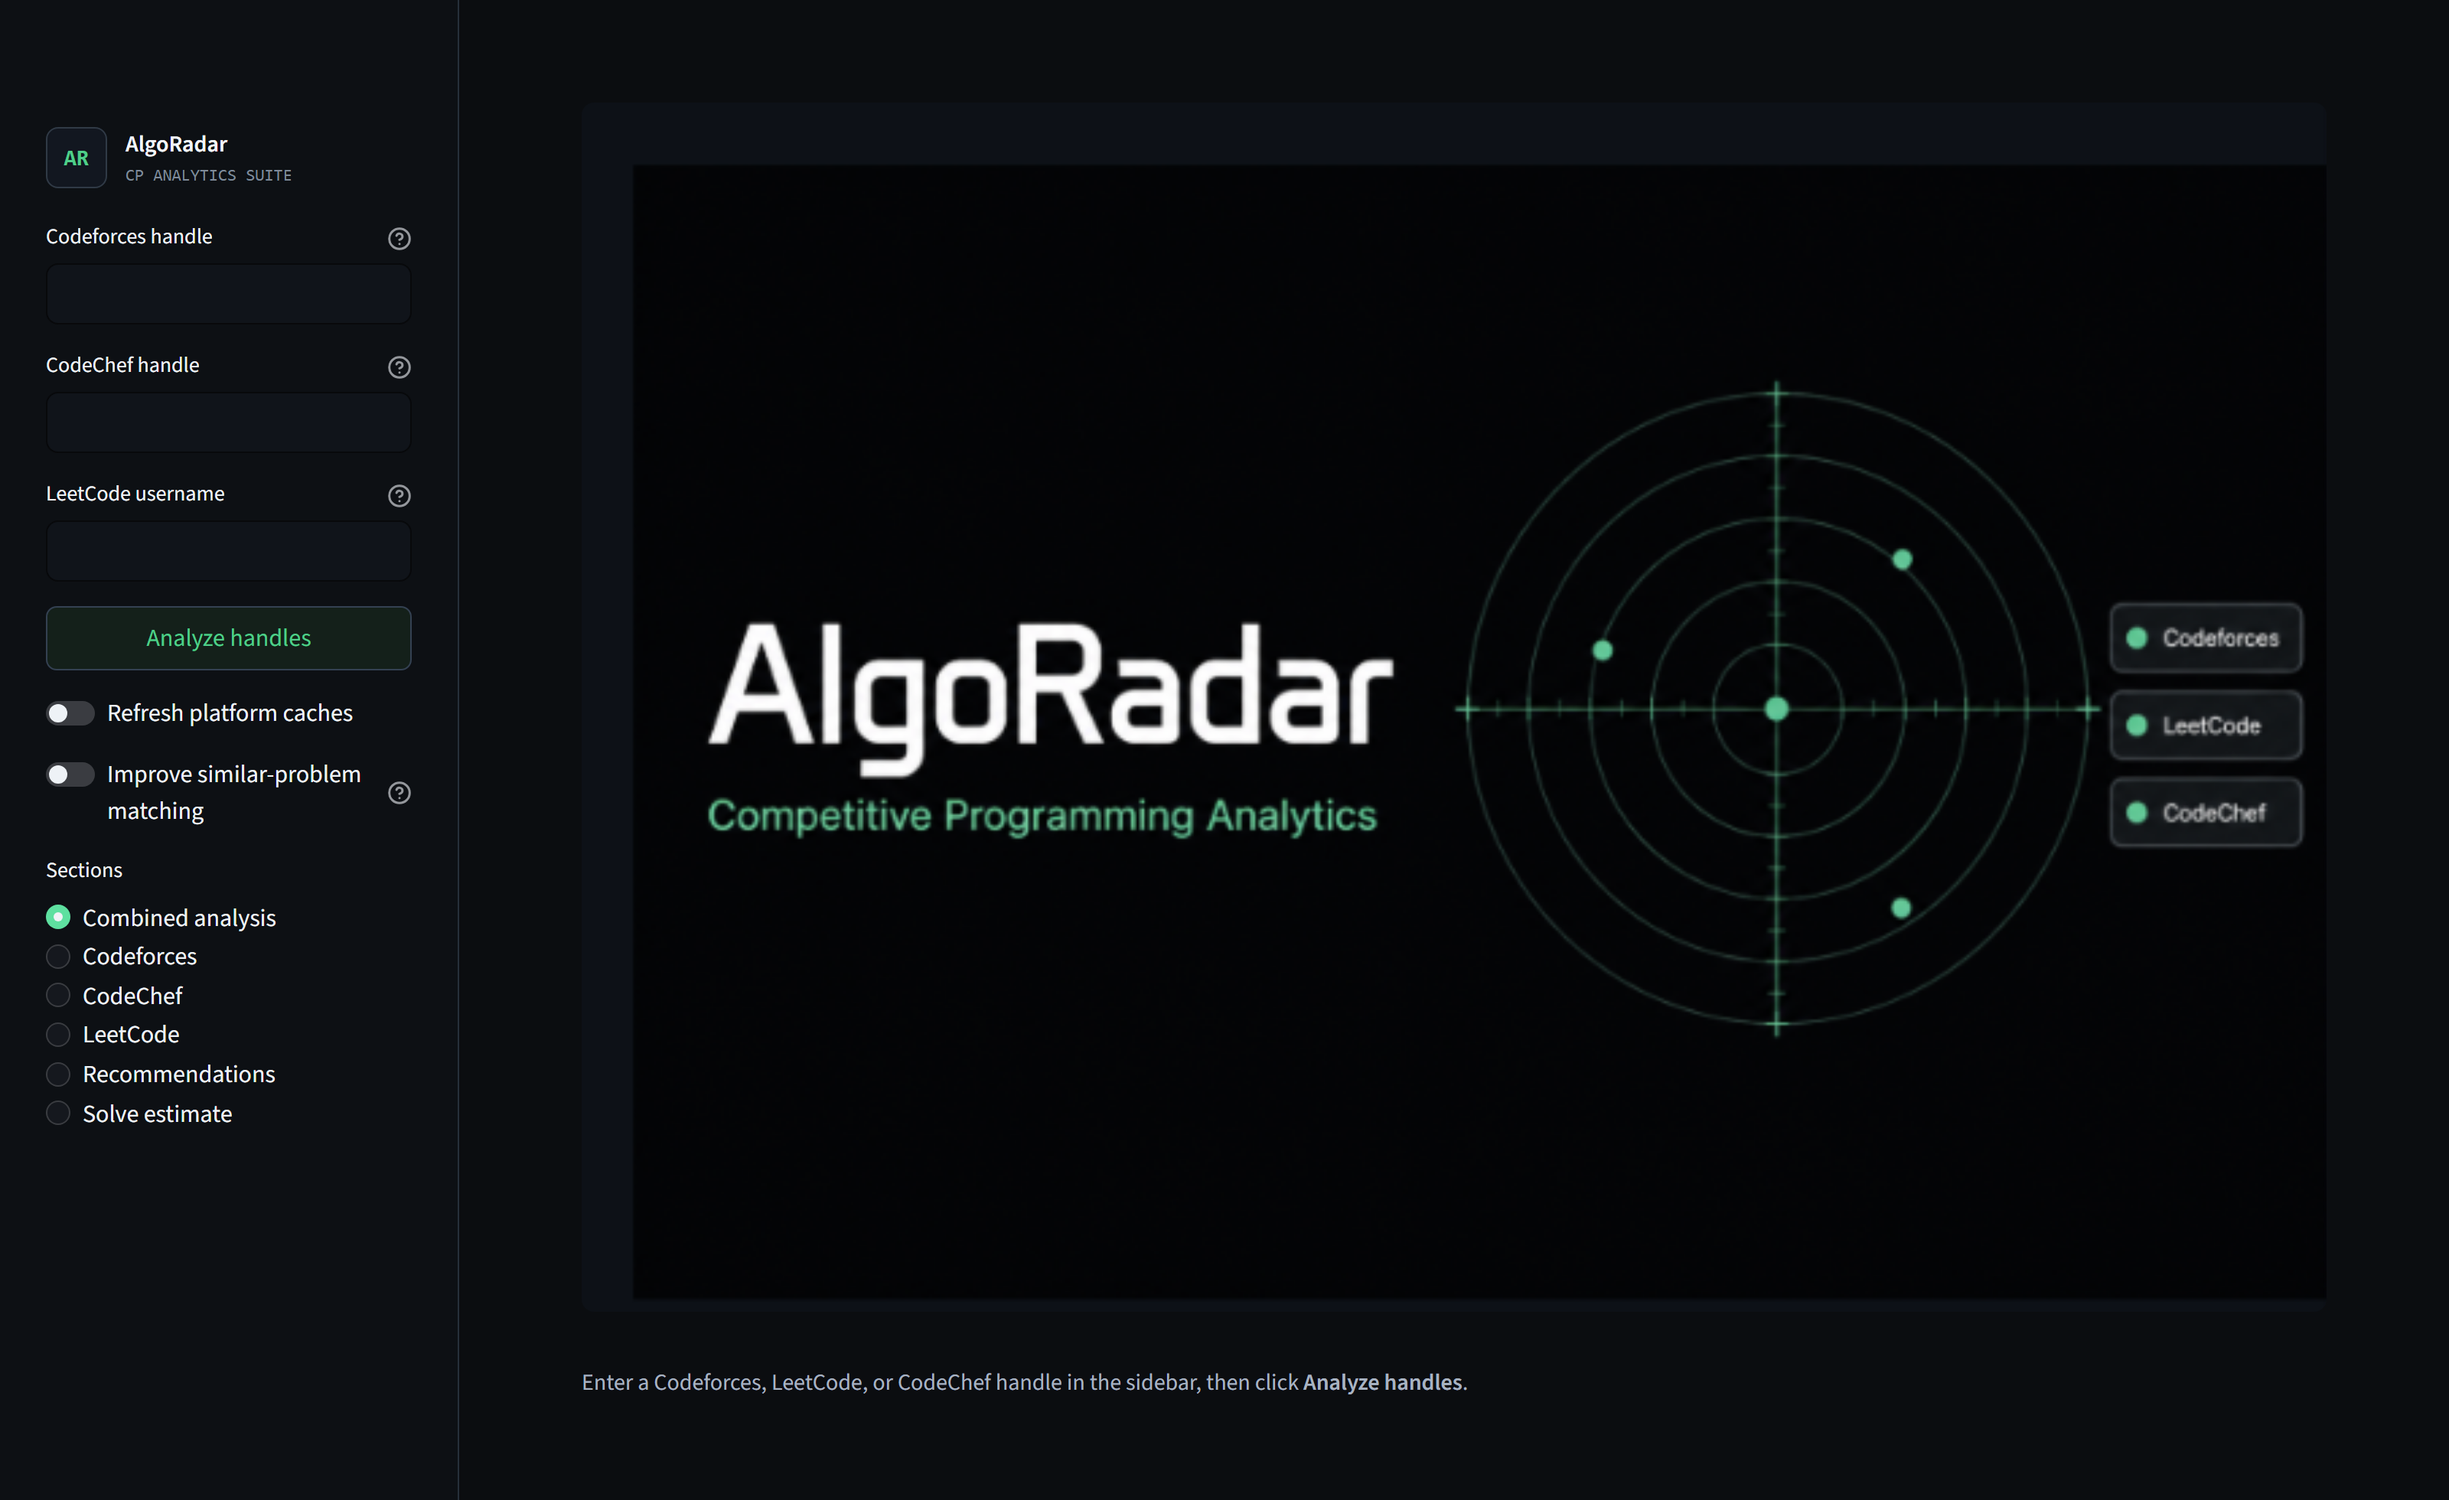
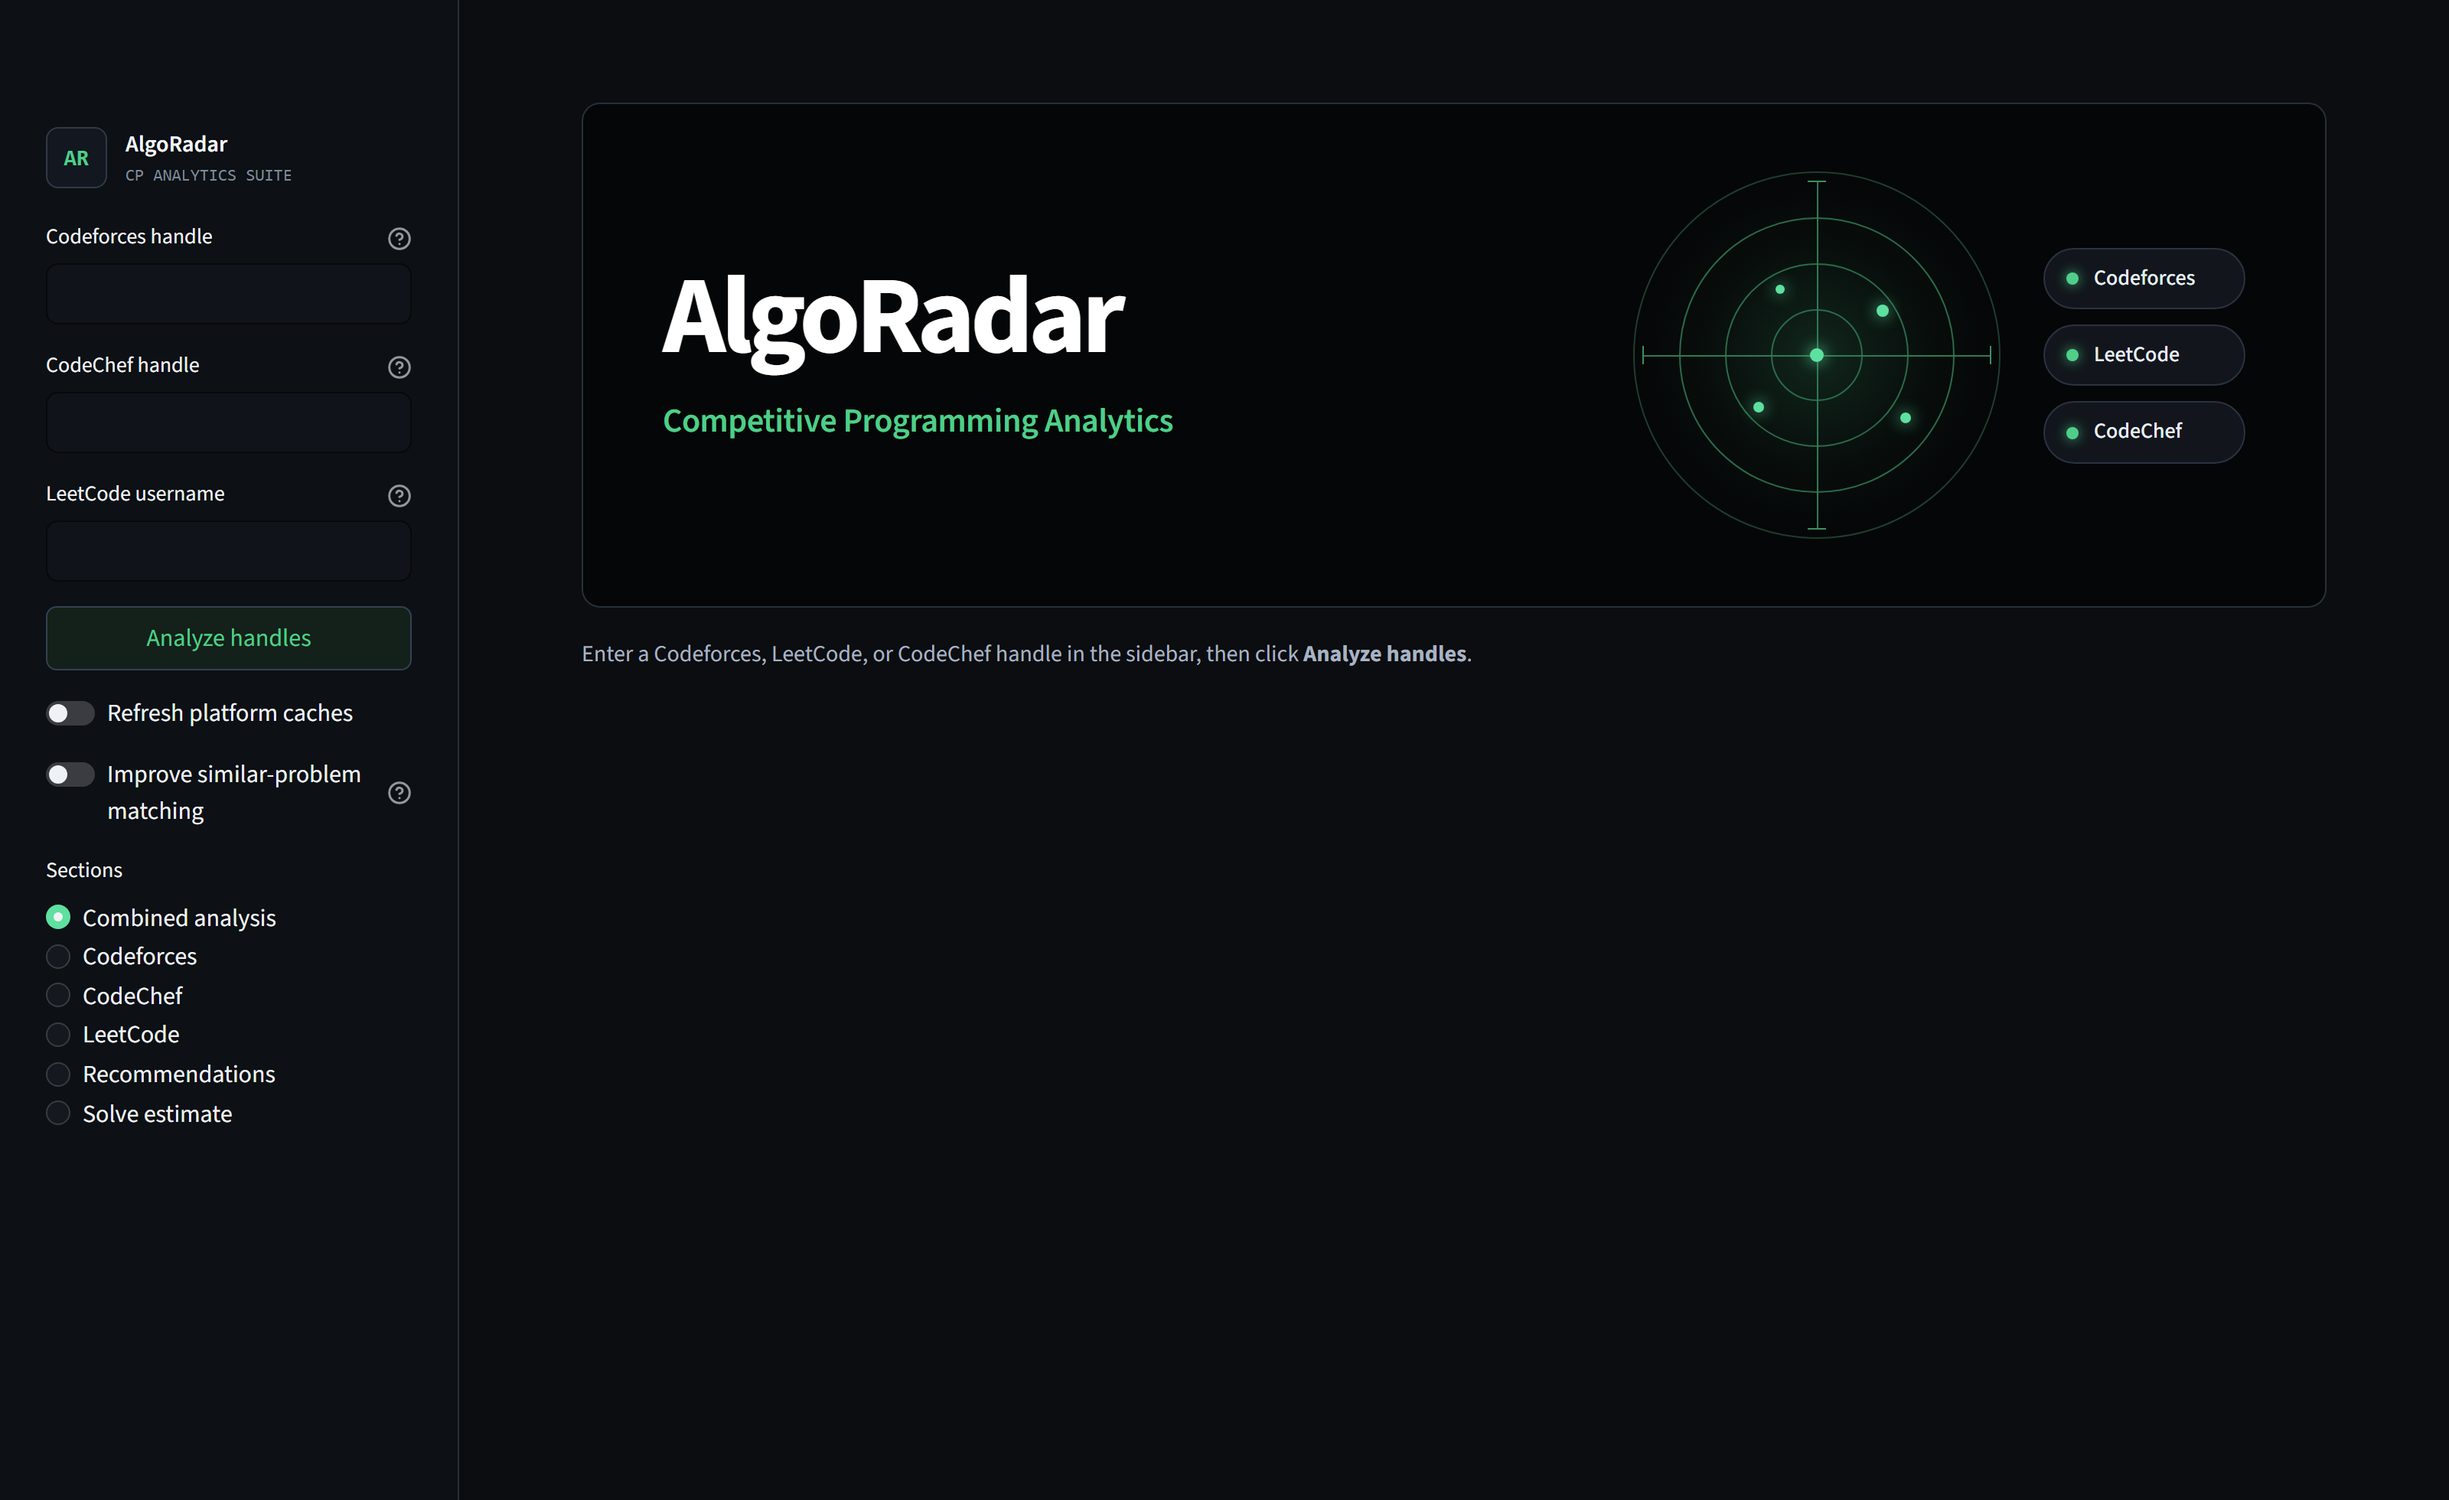
Replace the stretched landing PNG with a crisp CSS radar splash.

diff --git a/app.py b/app.py
@@ -9,7 +9,6 @@ import plotly.graph_objects as go
 import streamlit as st
 
 from algoradar.codeforces import CodeforcesAPIError
-from algoradar.config import PROJECT_ROOT
 from algoradar.platforms import (
     analyze_external_platforms,
     build_combined_overview,
@@ -264,16 +263,42 @@ def render_sidebar() -> None:
 
 
 def render_landing_splash() -> None:
-    hero = PROJECT_ROOT / "social_assets" / "algoradar-hero.png"
-    if hero.exists():
-        st.image(str(hero), **stretch_kwargs(st.image))
-    st.markdown(
+    st.html(
         """
+        <div class="splash-hero">
+          <div class="splash-copy">
+            <h1>AlgoRadar</h1>
+            <p>Competitive Programming Analytics</p>
+          </div>
+          <div class="splash-viz">
+            <div class="splash-radar" aria-hidden="true">
+              <span class="ring r1"></span>
+              <span class="ring r2"></span>
+              <span class="ring r3"></span>
+              <span class="ring r4"></span>
+              <span class="axis h"></span>
+              <span class="axis v"></span>
+              <span class="tick t-n"></span>
+              <span class="tick t-s"></span>
+              <span class="tick t-e"></span>
+              <span class="tick t-w"></span>
+              <span class="blip b0"></span>
+              <span class="blip b1"></span>
+              <span class="blip b2"></span>
+              <span class="blip b3"></span>
+              <span class="blip b4"></span>
+            </div>
+            <div class="splash-pills">
+              <span><span class="dot"></span>Codeforces</span>
+              <span><span class="dot"></span>LeetCode</span>
+              <span><span class="dot"></span>CodeChef</span>
+            </div>
+          </div>
+        </div>
         <div class="splash-hint">
           Enter a Codeforces, LeetCode, or CodeChef handle in the sidebar, then click <strong>Analyze handles</strong>.
         </div>
-        """,
-        unsafe_allow_html=True,
+        """
     )
 
 
@@ -1354,14 +1379,148 @@ def inject_css() -> None:
           text-transform: uppercase;
           letter-spacing: 0;
         }
+        .splash-hero {
+          display: flex;
+          align-items: center;
+          justify-content: space-between;
+          gap: 36px;
+          min-height: 300px;
+          padding: 44px 52px;
+          border: 1px solid var(--border);
+          border-radius: 12px;
+          background: #050607;
+          overflow: hidden;
+        }
+        .splash-copy h1 {
+          margin: 0;
+          color: #ffffff;
+          font-size: clamp(44px, 5.6vw, 72px);
+          font-weight: 700;
+          letter-spacing: -0.045em;
+          line-height: 0.95;
+        }
+        .splash-copy p {
+          margin: 16px 0 0;
+          color: var(--green);
+          font-size: clamp(16px, 1.7vw, 22px);
+          font-weight: 600;
+          letter-spacing: -0.01em;
+        }
+        .splash-viz {
+          display: flex;
+          align-items: center;
+          gap: 28px;
+          flex: 0 0 auto;
+        }
+        .splash-radar {
+          position: relative;
+          width: 240px;
+          height: 240px;
+          flex: 0 0 240px;
+          border-radius: 50%;
+          background: radial-gradient(circle, rgba(79, 206, 138, 0.16) 0%, rgba(79, 206, 138, 0.04) 42%, transparent 72%);
+        }
+        .splash-radar .ring {
+          position: absolute;
+          inset: 0;
+          margin: auto;
+          border: 1.5px solid #2a6b4a;
+          border-radius: 50%;
+          box-sizing: border-box;
+        }
+        .splash-radar .r1 { width: 100%; height: 100%; border-color: #1f3d2e; }
+        .splash-radar .r2 { width: 75%; height: 75%; }
+        .splash-radar .r3 { width: 50%; height: 50%; }
+        .splash-radar .r4 { width: 25%; height: 25%; }
+        .splash-radar .axis {
+          position: absolute;
+          background: #2f7a54;
+        }
+        .splash-radar .axis.h {
+          left: 3%;
+          right: 3%;
+          top: 50%;
+          height: 1px;
+        }
+        .splash-radar .axis.v {
+          top: 3%;
+          bottom: 3%;
+          left: 50%;
+          width: 1px;
+        }
+        .splash-radar .tick {
+          position: absolute;
+          background: #3d8f64;
+        }
+        .splash-radar .t-n, .splash-radar .t-s {
+          left: 50%;
+          width: 12px;
+          height: 1px;
+          margin-left: -6px;
+        }
+        .splash-radar .t-e, .splash-radar .t-w {
+          top: 50%;
+          width: 1px;
+          height: 12px;
+          margin-top: -6px;
+        }
+        .splash-radar .t-n { top: 6px; }
+        .splash-radar .t-s { bottom: 6px; }
+        .splash-radar .t-e { right: 6px; }
+        .splash-radar .t-w { left: 6px; }
+        .splash-radar .blip {
+          position: absolute;
+          width: 8px;
+          height: 8px;
+          border-radius: 50%;
+          background: #5ee0a0;
+          box-shadow: 0 0 10px rgba(94, 224, 160, 0.95);
+          transform: translate(-50%, -50%);
+        }
+        .splash-radar .b0 { left: 50%; top: 50%; width: 9px; height: 9px; }
+        .splash-radar .b1 { left: 68%; top: 38%; }
+        .splash-radar .b2 { left: 34%; top: 64%; width: 7px; height: 7px; }
+        .splash-radar .b3 { left: 74%; top: 67%; width: 7px; height: 7px; }
+        .splash-radar .b4 { left: 40%; top: 32%; width: 6px; height: 6px; }
+        .splash-pills {
+          display: flex;
+          flex-direction: column;
+          gap: 10px;
+        }
+        .splash-pills > span {
+          display: flex;
+          align-items: center;
+          gap: 10px;
+          min-width: 132px;
+          padding: 8px 14px;
+          border: 1px solid #2a3340;
+          border-radius: 999px;
+          background: #12161c;
+          color: #e8eef5;
+          font-size: 14px;
+          font-weight: 500;
+          white-space: nowrap;
+        }
+        .splash-pills .dot {
+          flex: 0 0 8px;
+          width: 8px;
+          height: 8px;
+          border-radius: 50%;
+          background: var(--green);
+          box-shadow: 0 0 8px rgba(79, 206, 138, 0.85);
+        }
         .splash-hint {
           margin-top: 18px;
           color: var(--muted);
           font-size: 15px;
         }
-        img[data-testid="stImage"] {
-          border-radius: 12px;
-          border: 1px solid var(--border);
+        @media (max-width: 980px) {
+          .splash-hero {
+            flex-direction: column;
+            align-items: flex-start;
+            padding: 32px 28px;
+            min-height: 0;
+          }
         }
         .hero {
           display: flex;

diff --git a/scripts/capture_readme_shots.py b/scripts/capture_readme_shots.py
@@ -53,16 +53,13 @@ def main() -> None:
         browser = playwright.chromium.launch(headless=True)
         page = browser.new_page(viewport={"width": 1600, "height": 980}, device_scale_factor=2)
         page.goto(BASE, wait_until="networkidle", timeout=60000)
-        page.wait_for_selector('[data-testid="stImage"] img', timeout=30000)
-        page.wait_for_function(
-            """() => {
-              const img = document.querySelector('[data-testid="stImage"] img');
-              return Boolean(img && img.complete && img.naturalWidth > 80);
-            }""",
-            timeout=30000,
-        )
+        page.wait_for_selector(".splash-hero", timeout=30000)
         page.wait_for_timeout(800)
         shot(page, "algoradar-screenshot-landing.png")
+        hero = page.locator(".splash-hero")
+        if hero.count():
+            hero.screenshot(path=str(OUT / "algoradar-hero.png"), type="png")
+            print("wrote", OUT / "algoradar-hero.png")
         fill_handles(page)
         page.get_by_text("Combined analysis", exact=True).click()
         page.get_by_text("Total solved").wait_for(timeout=30000)

diff --git a/README.md b/README.md
@@ -1,5 +1,5 @@
 <p align="center">
-  <img src="social_assets/algoradar-hero.png" alt="AlgoRadar — competitive programming analytics" width="100%">
+  <img src="social_assets/algoradar-hero.svg" alt="AlgoRadar — competitive programming analytics" width="100%">
 </p>
 
 <p align="center">
